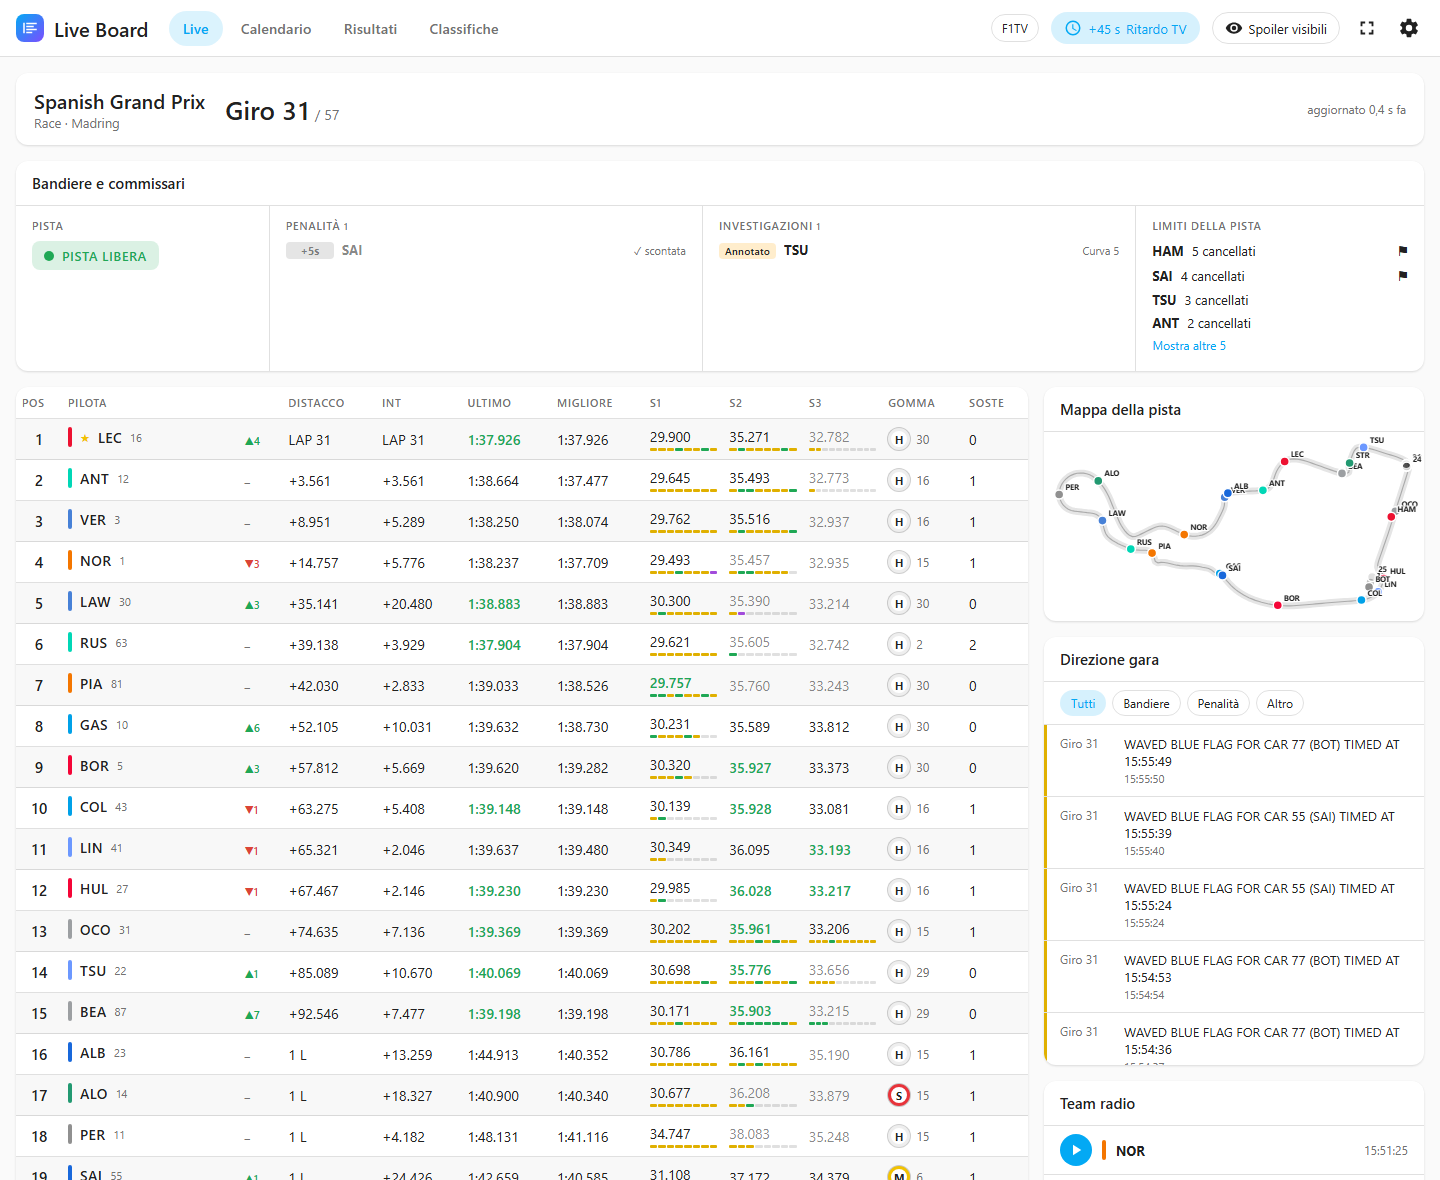
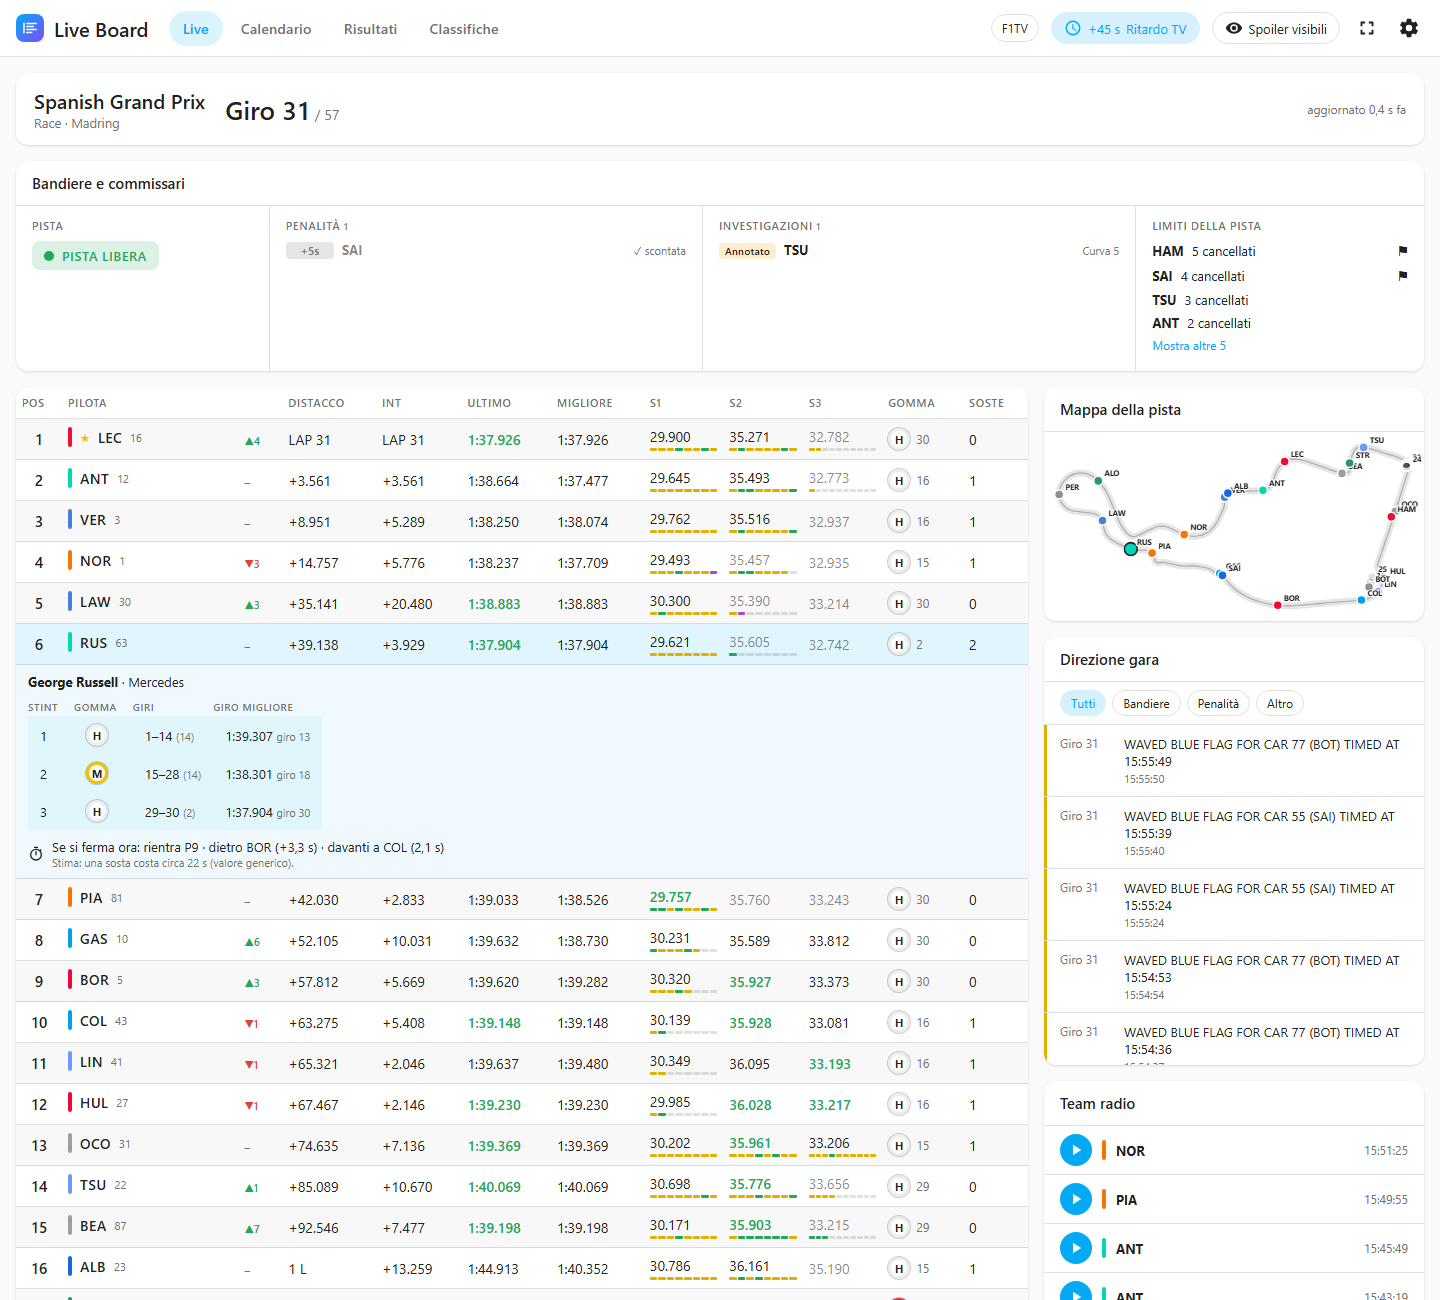
Show the latest Live page in the screenshots: stints open, kiosk on a TV

diff --git a/docs/guide.it.md b/docs/guide.it.md
@@ -371,6 +371,8 @@ spoiler attiva aspetta che tu scopra la sessione o spenga la modalità.
 
 ## Schermi dedicati
 
+![La modalità kiosk su una TV](screenshots/tv.it.png)
+
 **Una TV, un monitor con un Raspberry Pi, un tablet a parete.** Aggiungi `?kiosk`
 all'indirizzo del pannello (le Impostazioni lo mostrano, pronto da copiare): il pannello
 riempie tutto lo schermo, sopra la barra laterale e l'intestazione di Home Assistant, e

diff --git a/docs/guide.md b/docs/guide.md
@@ -355,6 +355,8 @@ waits until you reveal the session or turn the mode off.
 
 ## Dedicated screens
 
+![Kiosk mode on a TV](screenshots/tv.png)
+
 **A TV, a monitor with a Raspberry Pi, a wall tablet.** Add `?kiosk` to the panel's
 address (Settings shows it, ready to copy): the panel fills the whole screen, over
 Home Assistant's sidebar and header, and the pointer hides when it rests. On a
